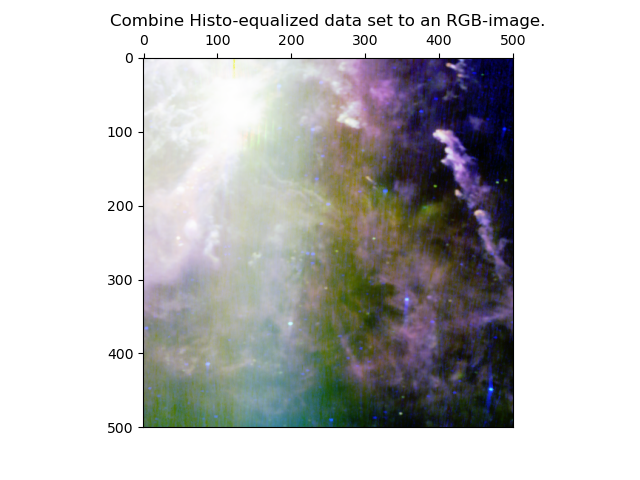
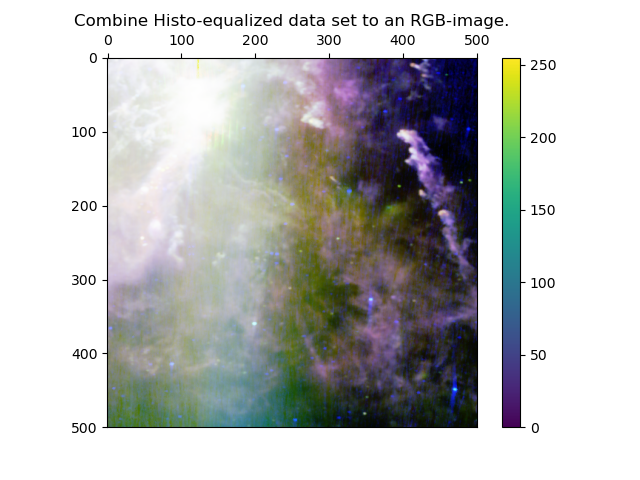
Added colorbar to RGB image.

diff --git a/Assignments/Assignment 3/Equalization.py b/Assignments/Assignment 3/Equalization.py
@@ -1,5 +1,3 @@
-from typing import List
-
 import numpy as np
 import matplotlib.pyplot as plt
 import math
@@ -9,7 +7,6 @@ rows, cols = (500, 500)
 maximumValueList = [0 for x in range(rows)]
 Trans = [[0 for x in range(cols)] for y in range(rows)]
 RGB_array = [[[0 for x in range(3)] for y in range(cols)] for z in range(rows)]
-print(RGB_array)
 
 
 # Read the band data from file start.
@@ -40,7 +37,7 @@ band4_1d = read_data_from_file("./orion/i170b4h0_t0.txt")
 band4_2d = np.asarray(band4_1d).reshape(rows, cols)
 # Read the band data from file end.
 
-# Calculate Max., Min., Mean and Variance value for Band2 start.
+# (a) Calculate Max., Min., Mean and Variance value for Band2 start.
 maxValue = max(band2_1d)
 print("Maximum value = ", maxValue)
 
@@ -52,24 +49,22 @@ print("Mean value = ", meanValue)
 
 varianceValue = np.var(band2_1d)
 print("Variance value = ", varianceValue)
-# Calculate Max., Min., Mean and Variance value for Band2 End.
+# (a) Calculate Max., Min., Mean and Variance value for Band2 End.
 
-# Profile line through the Max. value of band2 data start.
+# (b) Profile line through the Max. value of band2 data start.
 for i in range(rows):
     if max(band2_2d[i]) > max(maximumValueList):
         maximumValueList = []
         maximumValueList = band2_2d[i]
-# line = plt.figure(1)
 plt.plot(maximumValueList, 'tab:green')
 plt.title("Profile line through the line with the maximum value of Band2 2D data set.")
 plt.xlabel('x-axis.')
 plt.ylabel('y-axis.')
 plt.savefig("ProfileLine.png")
 plt.show()
-# Profile line through the Max. value of band2 data end.
+# (b) Profile line through the Max. value of band2 data end.
 
-# Display Histogram of band2 Data start.
-# hist = plt.figure(2)
+# (c) Display Histogram of band2 Data start.
 r_list, abs_occ_values = np.unique(band2_1d, return_counts=True)
 plt.plot(r_list, abs_occ_values)
 plt.title('Histogram of band2 data set.')
@@ -77,10 +72,9 @@ plt.xlabel('Data values on x-axis.')
 plt.ylabel('Absolute Occurrence on y-axis.')
 plt.savefig("Histogram.png")
 plt.show()
-# Display Histogram of band2 Data End.
+# (c) Display Histogram of band2 Data End.
 
-# Rescale values to range between 0 and 255 using transformation start.
-# tra = plt.figure(3)
+# (d) Rescale values to range between 0 and 255 using transformation start.
 constant = smax / (math.log(maxValue + 1, 2))
 for m in range(rows):
     for n in range(cols):
@@ -98,10 +92,10 @@ ax.xaxis.tick_top()
 plt.title('Transformation of band2 2D Data set in range between 0 and 255.')
 plt.savefig('Transformation.png')
 plt.show()
-# Rescale values to range between 0 and 255 using transformation end.
+# (d) Rescale values to range between 0 and 255 using transformation end.
 
 
-# Histogram equalization on each of the four bands start.                    
+# (e) Histogram equalization on each of the four bands start.
 def histogram_equalization(oned_band):
     r_values, absolute_values, relative_values, CDF_values, s_values = ([], [], [], [], [])
 
@@ -164,15 +158,16 @@ ax.xaxis.tick_top()
 plt.title('Histogram equalization of Band4.')
 plt.savefig("HistogramEqualization_Band4.png")
 plt.show()
-# Histogram equalization on each of the four bands end.
+# (e) Histogram equalization on each of the four bands end.
 
-# Combine Histo-equalized data set to an RGB-image (b4=r, b3=g, b1=b) start.
+# (f) Combine Histo-equalized data set to an RGB-image (b4=r, b3=g, b1=b) start.
 for i in range(rows):
     for j in range(cols):
         RGB_array[i][j][0] = hist_equ_band4[i][j]
         RGB_array[i][j][1] = hist_equ_band3[i][j]
         RGB_array[i][j][2] = hist_equ_band1[i][j]
 plt.imshow(np.uint8(RGB_array), aspect='equal')
+plt.colorbar()
 ax = plt.gca()
 ax.set_xticks([0, 100, 200, 300, 400, 500])
 ax.set_yticks([0, 100, 200, 300, 400, 500])
@@ -180,3 +175,4 @@ ax.xaxis.tick_top()
 plt.title('Combine Histo-equalized data set to an RGB-image.')
 plt.savefig("RGB_image.png")
 plt.show()
+# (f) Combine Histo-equalized data set to an RGB-image (b4=r, b3=g, b1=b) end.
